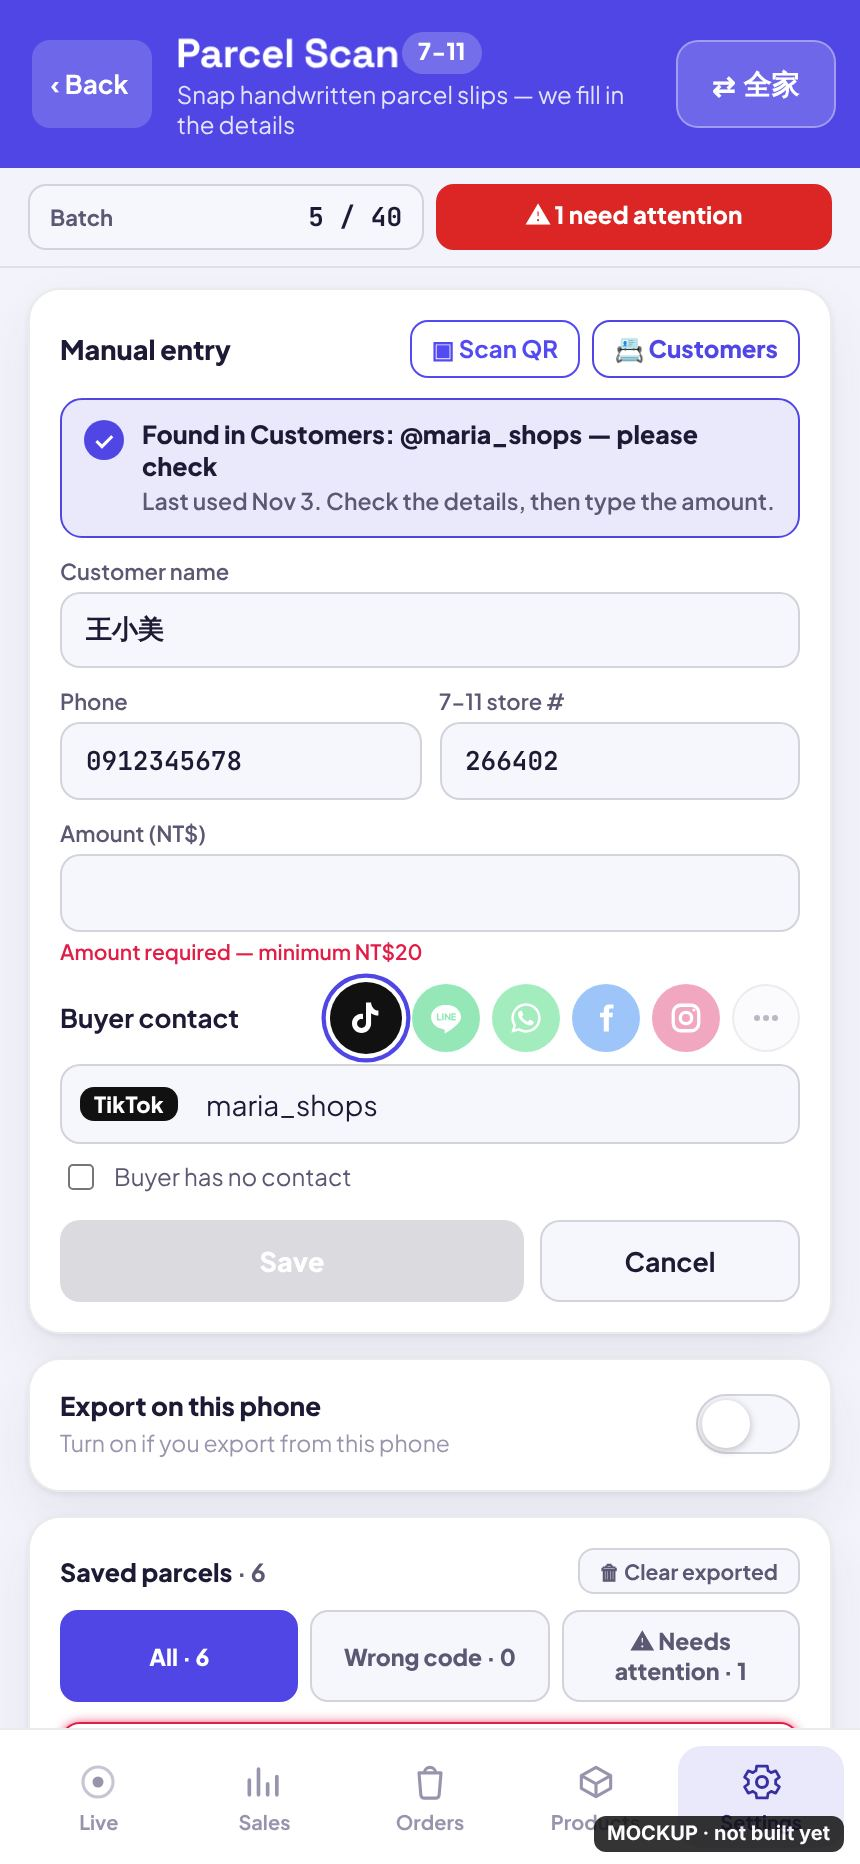
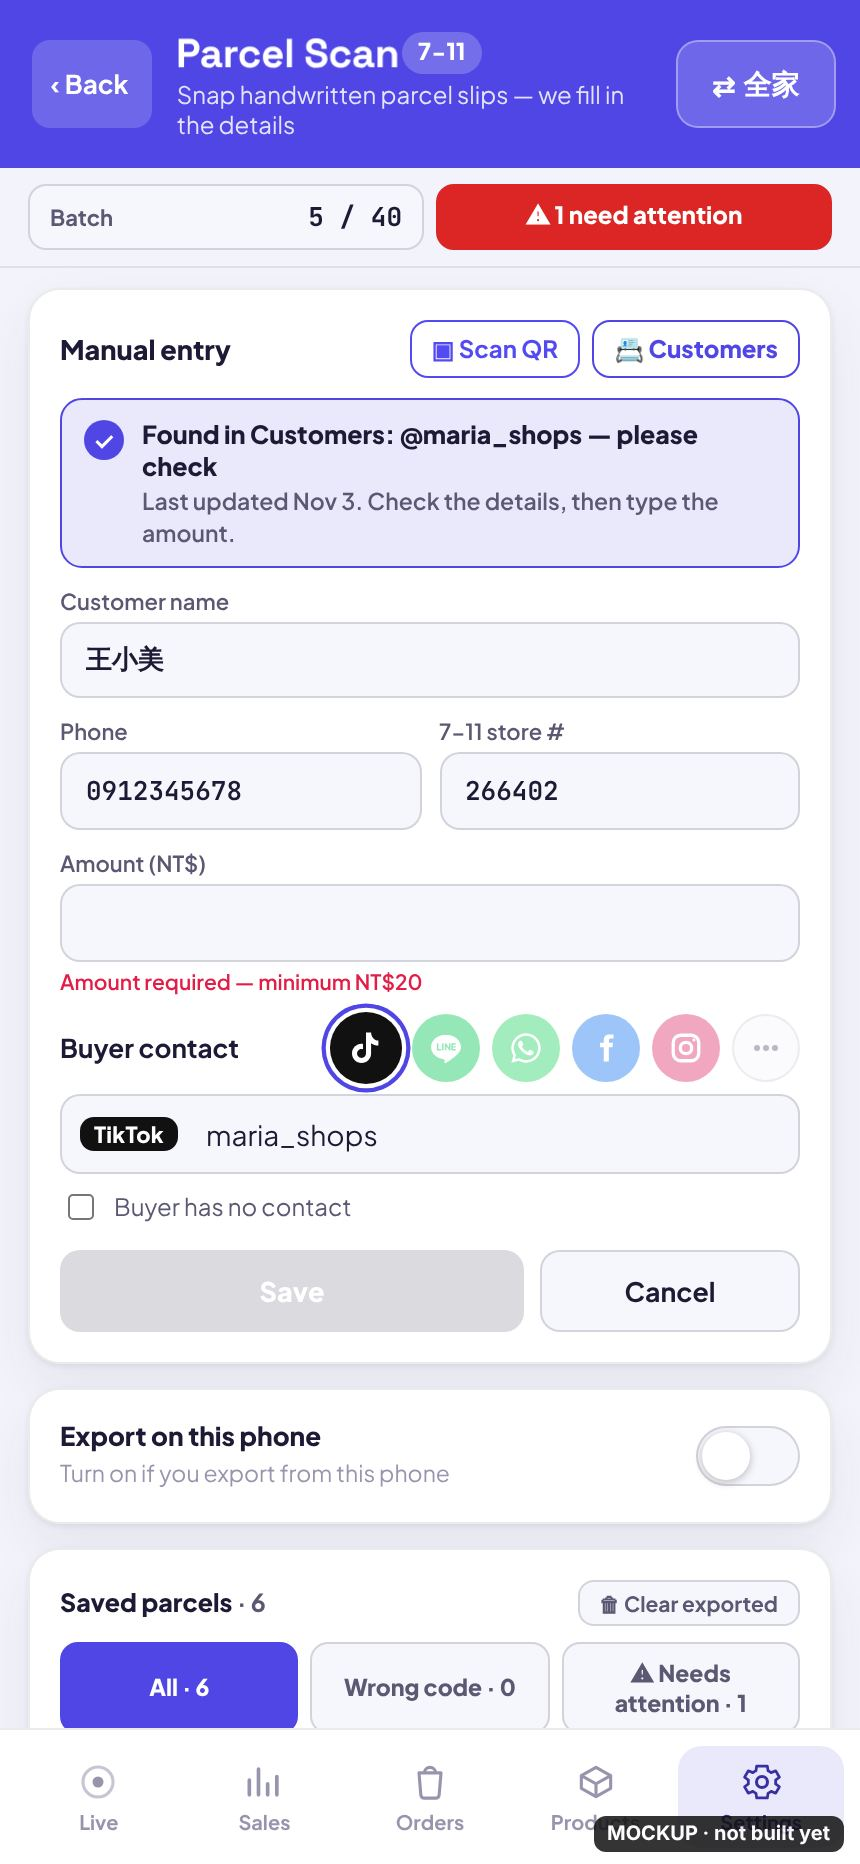
Scan QR lookup plan: independent review folded in (10 findings); mockups say 'last updated'
Corrected: no-platform rows are not only TikTok; a Customers row's date is the
last write, not last use; wait behaviour, reset points, query spec tightened.
The fixes were not re-audited (stated in the plan). Docs only.

Claude-Session: https://claude.ai/code/session_016eKNVUSjjPXywP8qaFW4Mh

diff --git a/docs/design/scan-qr-lookup/README.md b/docs/design/scan-qr-lookup/README.md
@@ -13,7 +13,7 @@ Mga lapad: iPhone 390, Android 360, Android 430, laptop 1280.
 | Estado | Ano ang ipinapakita | Totoo o drowing? |
 |---|---|---|
 | `1-before-scan` | Bago i-scan — ang screen ngayon | Totoong screen, walang binago |
-| `2-one-match` | Isang tugma sa Customers: napunan ang pangalan, phone, store at buyer contact; presyo na lang; "Found in Customers: @x — please check · last used ‹petsa›" | Totoong mga field (tinype ang sample); ang kahon ay drowing |
+| `2-one-match` | Isang tugma sa Customers: napunan ang pangalan, phone, store at buyer contact; presyo na lang; "Found in Customers: @x — please check · last updated ‹petsa›" | Totoong mga field (tinype ang sample); ang kahon ay drowing |
 | `3-many-matches` | Tatlong record para sa iisang username, **iba-iba ang store**: pagpipilian, pinakabago sa itaas, + "None of these — I'll type the details". Walang kusang napunan maliban sa username | Ang kahon at pagpipilian ay drowing |
 | `4-no-match` | Walang tugma: @username lang, **eksaktong gaya ngayon** | **Totoong screen**: isang totoong QR (`https://tiktok.com/@newbuyer_tw`) ang ipinasa sa totoong Scan QR — ang app mismo ang nagbasa at nagpuno, at ito ang toast nito ngayon. Tatak: "REAL SCREEN · same as today" |
 
